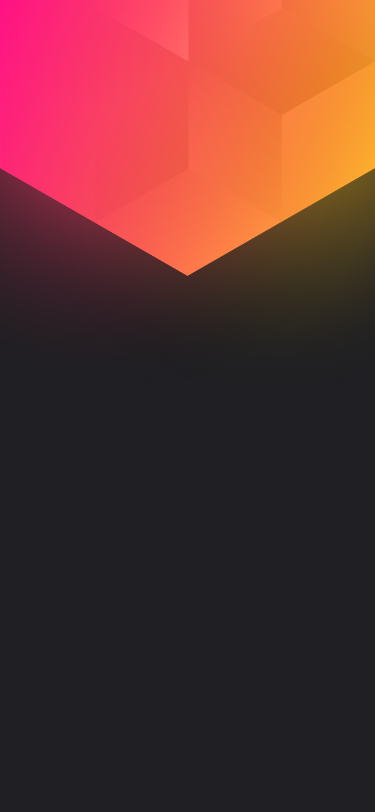
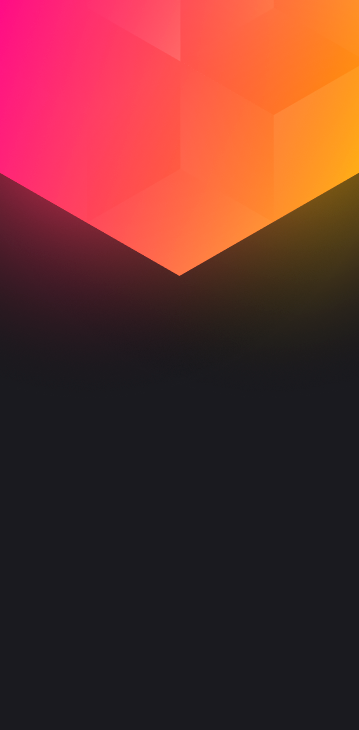
ajustes no css

Changed region(s): [[0.0, 0.211, 1.0, 0.3918], [0.7967, 0.0603, 1.0, 0.1507]]

diff --git a/style.css b/style.css
@@ -21,10 +21,10 @@ body {
 }
 
 main {
-  background: url(./images/background.png) no-repeat center/cover;
-  min-height: 812px;
-  width: 100vw;
-  height: 100vh;
+  background: url(./images/background.png);
+  background-repeat: no-repeat;
+  width: 375px;
+  height: 770px;
 }
 
 .container {
